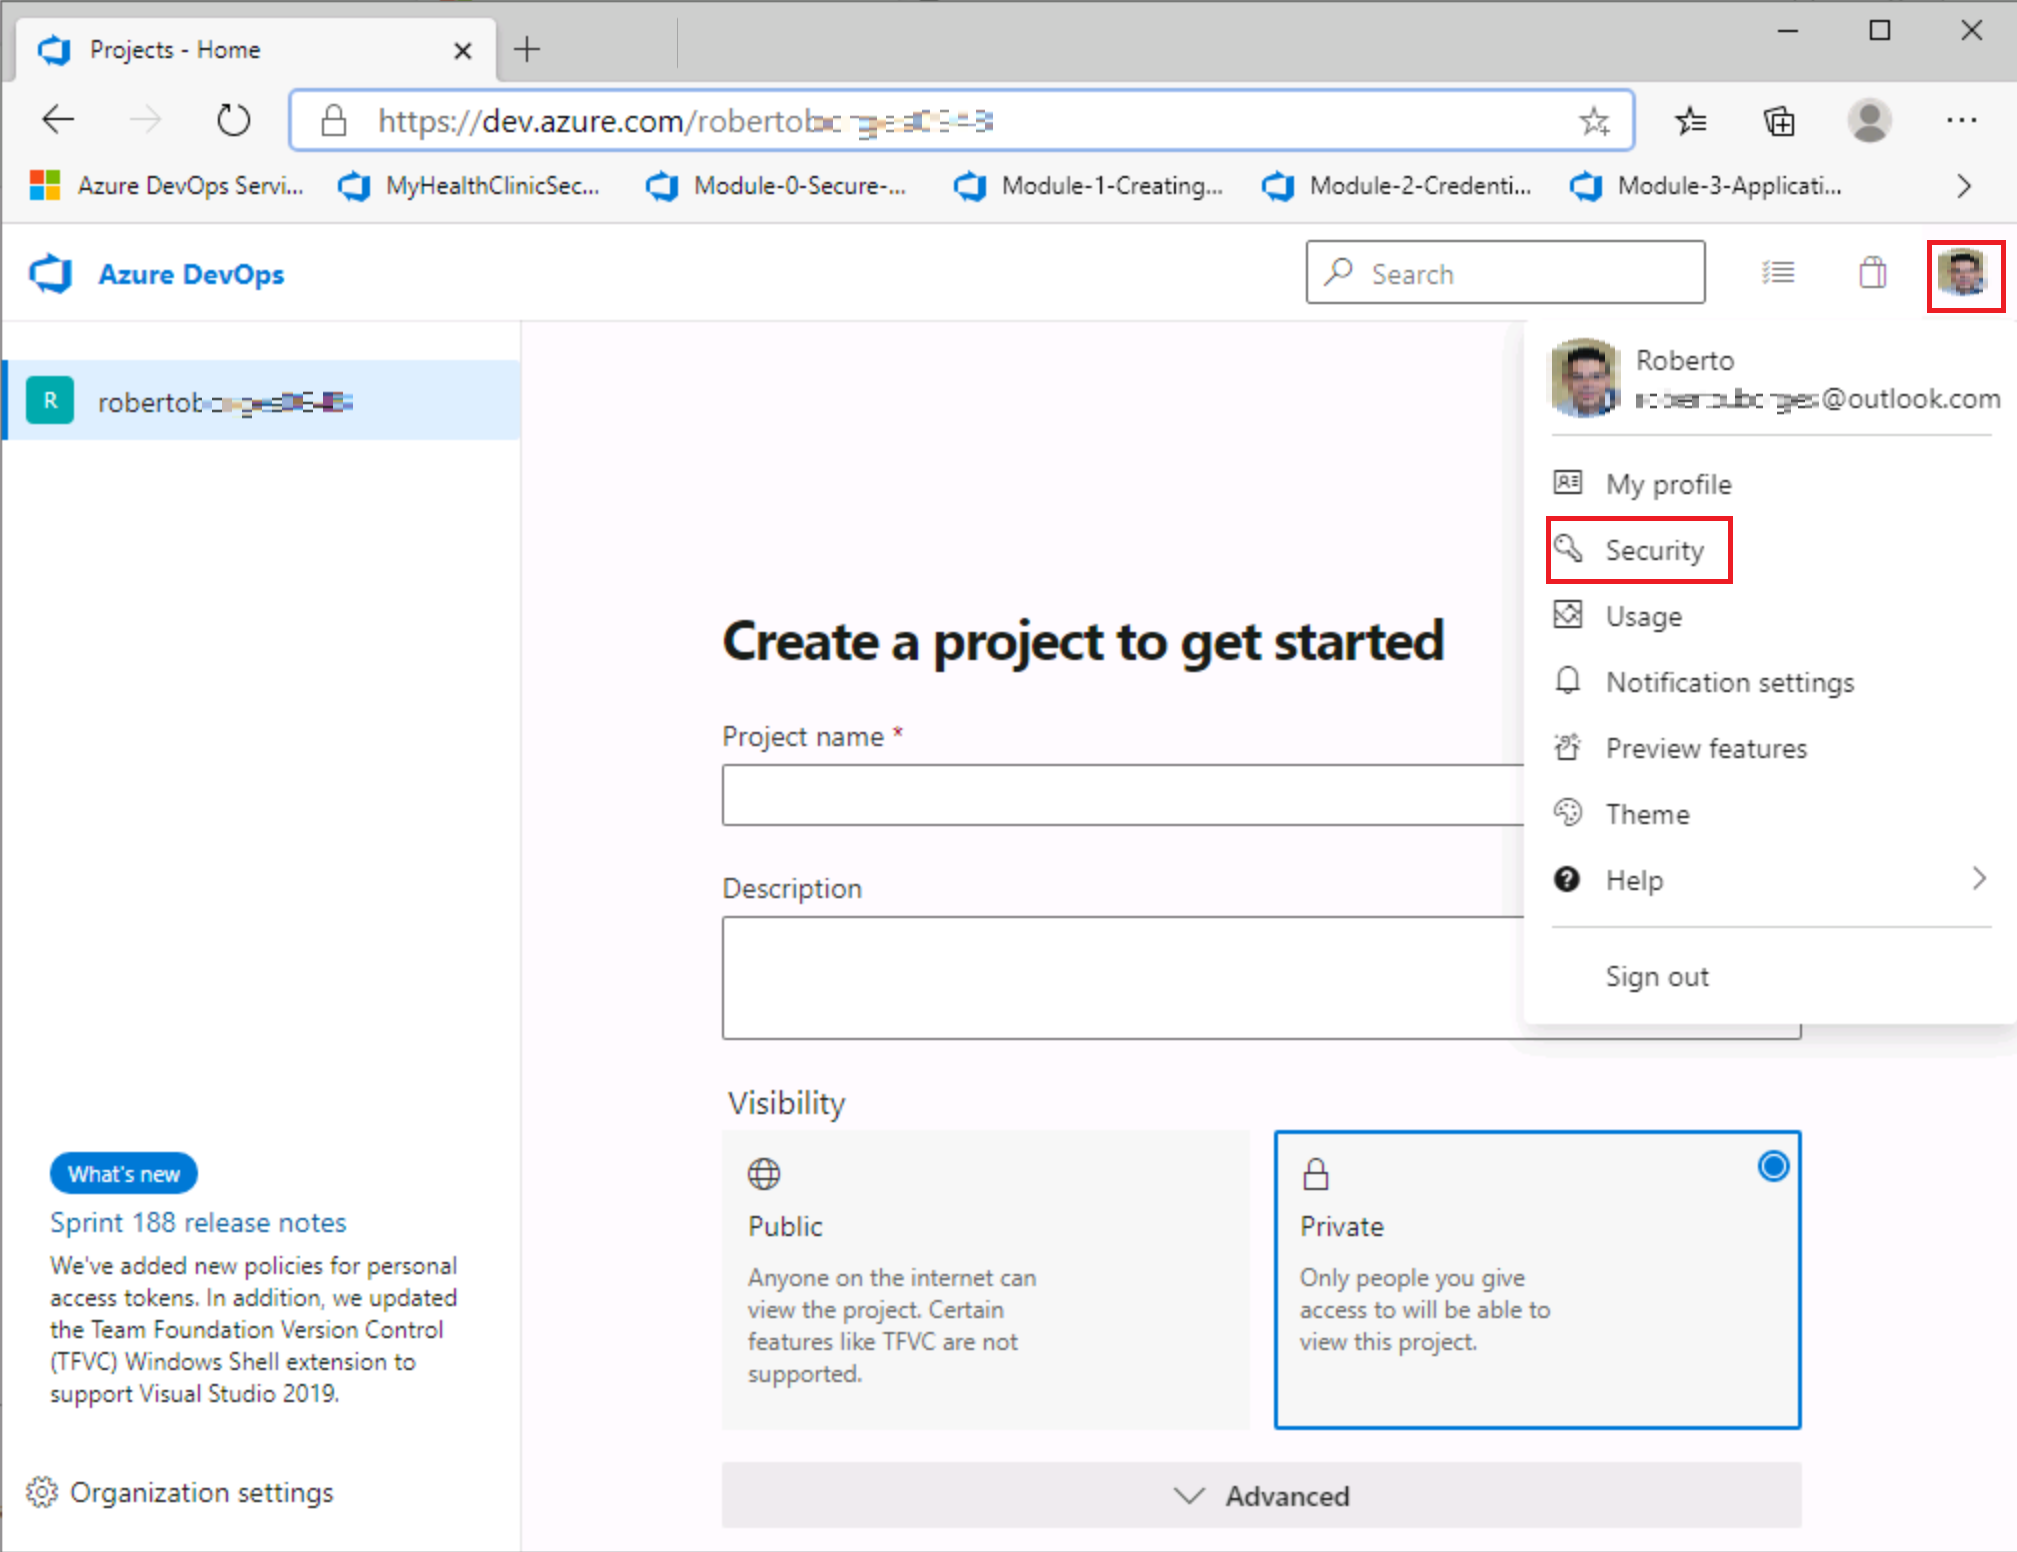
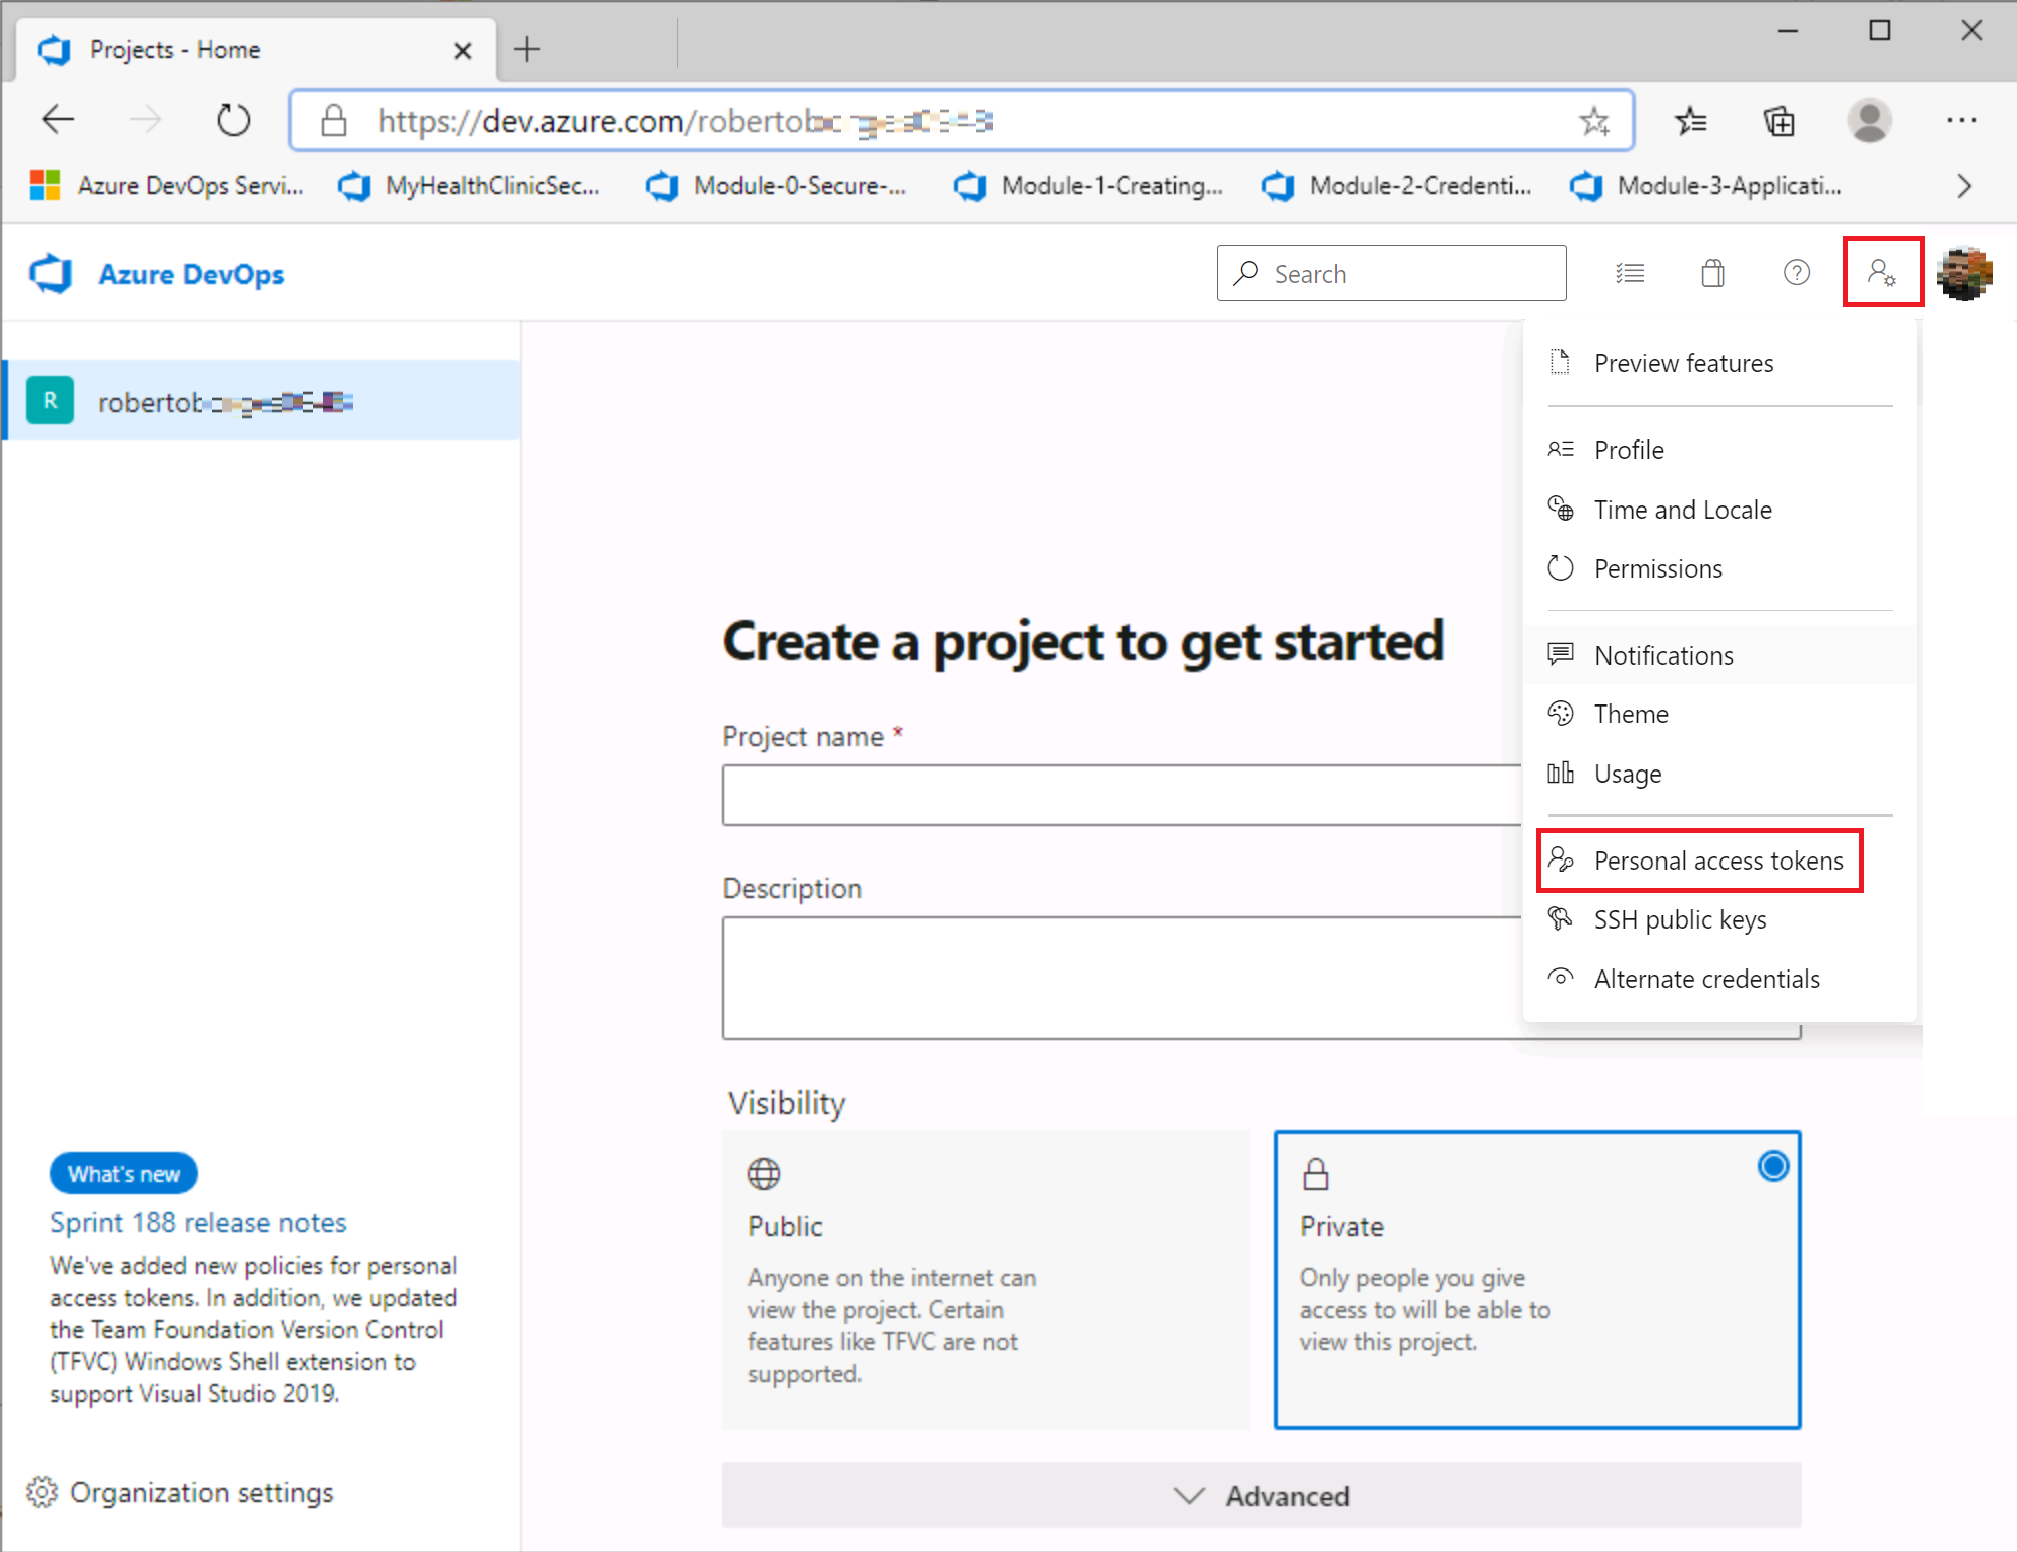
Updaing Labs and Scans

diff --git a/Labs/Module-4-Automating-a-Secure-and-Compliant-Pipeline.md b/Labs/Module-4-Automating-a-Secure-and-Compliant-Pipeline.md
@@ -94,9 +94,9 @@ discover bug or vulnerability early in the process.
 
    Select `On Overall Code` option
 
-    As `Quality Gate fails when` select **Vulnerabilities**  in the combobox
+    As `Quality Gate fails when` select **Security Review Rating**  in the combobox
 
-    On `Value` type **1** and click `Add Condition`.
+    On `Value` select **A** and click `Add Condition`.
 
     ![](./images/Module4-AddSonarConfigure04.png =800x)
 

diff --git a/Labs/Module-0-Secure-DevOps-Prerequisites.md b/Labs/Module-0-Secure-DevOps-Prerequisites.md
@@ -83,7 +83,7 @@ In this pre-work module (lab 2 of 2) you will setup your `Azure DevOps` environm
 
     ![](images/CreateDevOpsAcc01.png =300x)
 
-3. In your new Organization, create a **Personal Access Token (PAT)**. Navigate to `Security`
+3. In your new Organization, create a **Personal Access Token (PAT)**. Navigate to `Security` or `User Settings`
 
     ![](images/CreateDevOpsAcc10.png =400x)
 
